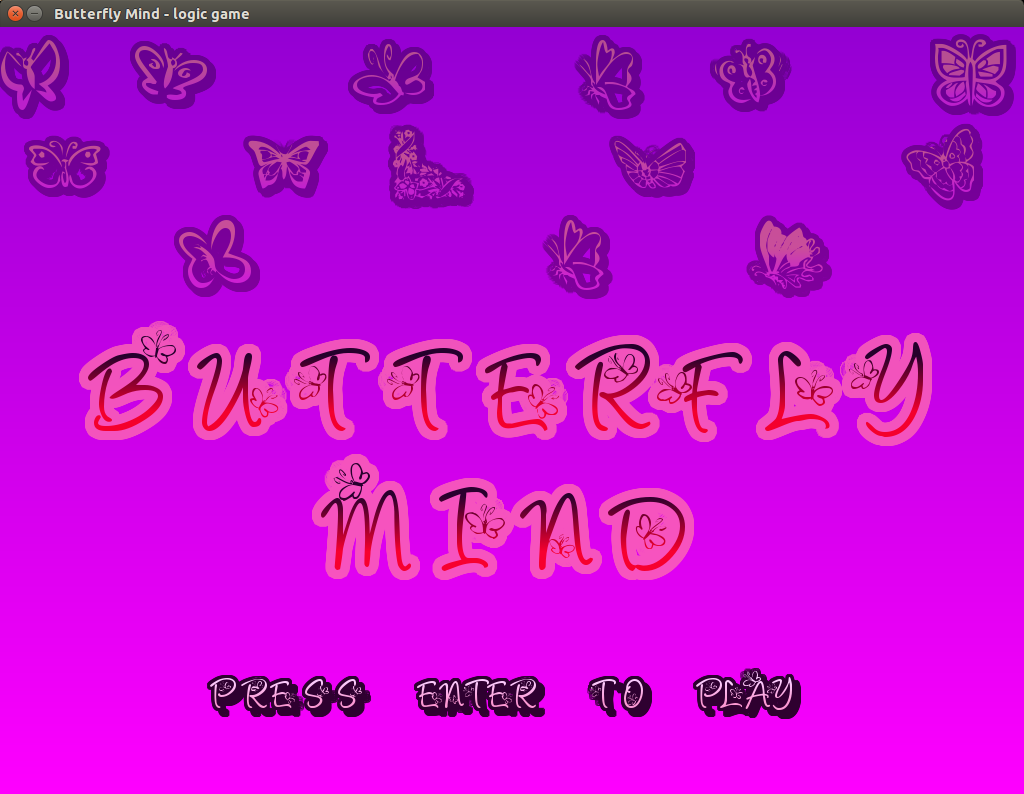
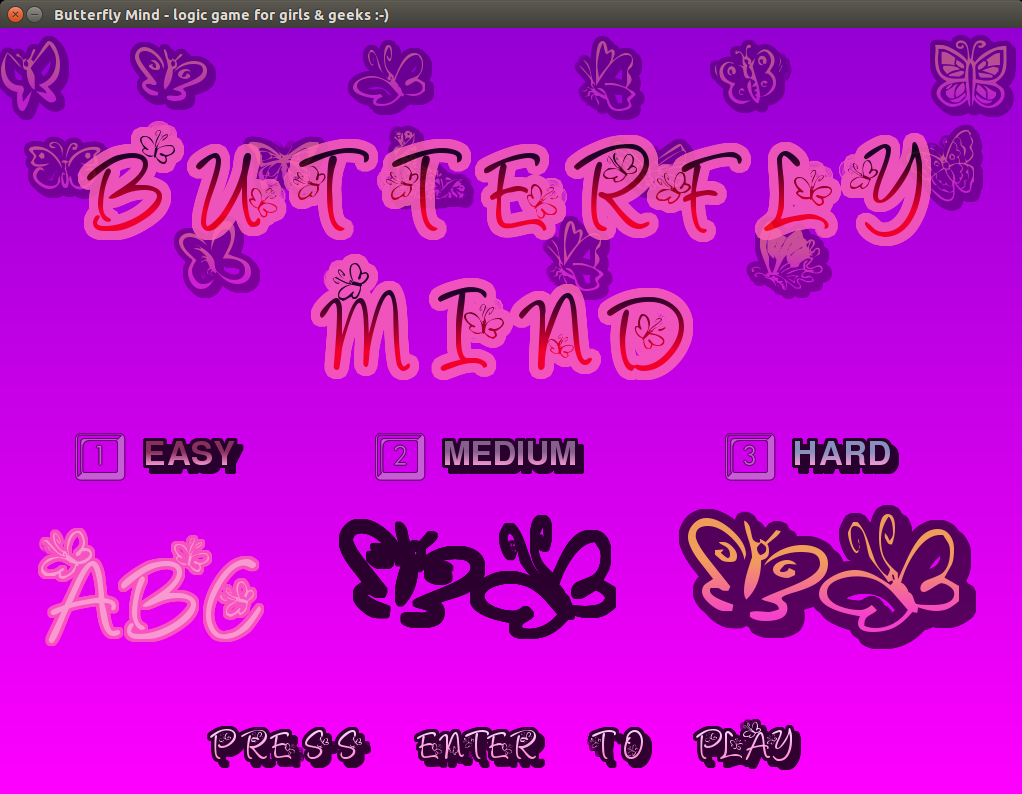
updating screen shots

diff --git a/README.md b/README.md
@@ -19,9 +19,11 @@ in new set from last set.
 
 ## Screen shots
 
-![Welcome screen shot](https://raw.githubusercontent.com/bieli/butterfly-mind--python-game/master/img/screen_shots/welcome_screenshot.png)
+![Welcome screen shot](https://raw.githubusercontent.com/bieli/butterfly-mind--python-game/master/resources/img/screen_shots/welcome_screenshot.png)
 
-![Game screen shot](https://raw.githubusercontent.com/bieli/butterfly-mind--python-game/master/img/screen_shots/game_screenshot.png)
+![Game screen shot - mode EASY](https://raw.githubusercontent.com/bieli/butterfly-mind--python-game/master/resources/img/screen_shots/game_screenshot.1.png)
+
+![Game screen shot - mode HARD](https://raw.githubusercontent.com/bieli/butterfly-mind--python-game/master/resources/img/screen_shots/game_screenshot.3.png)
 
 
 ## How to run
